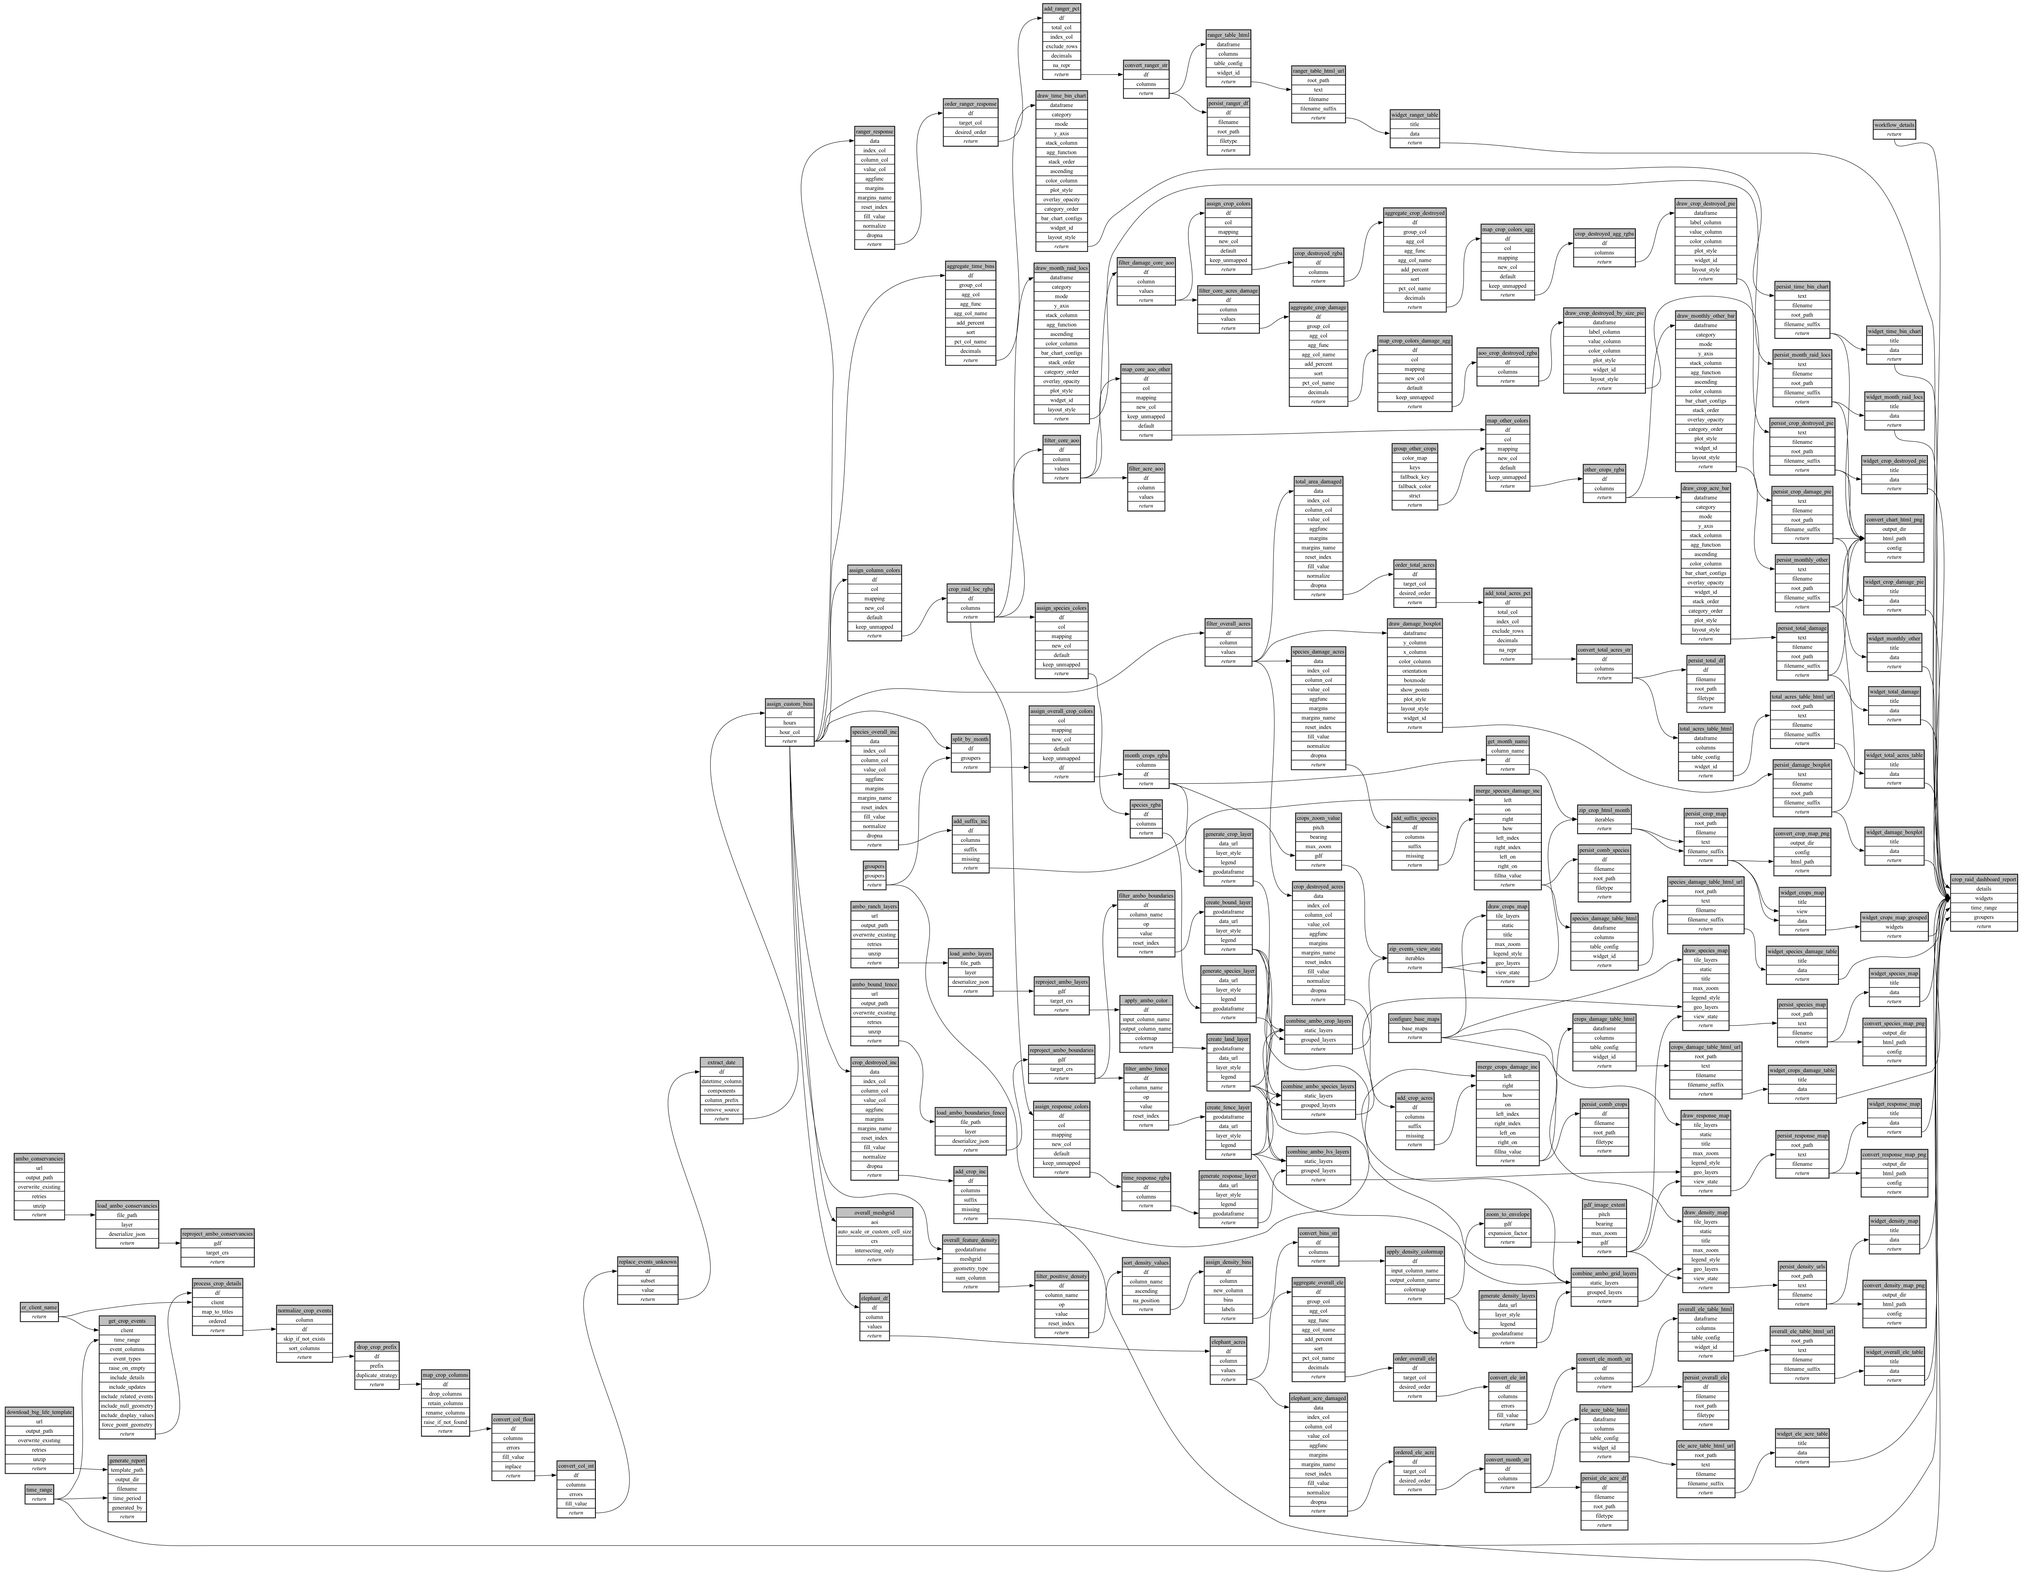
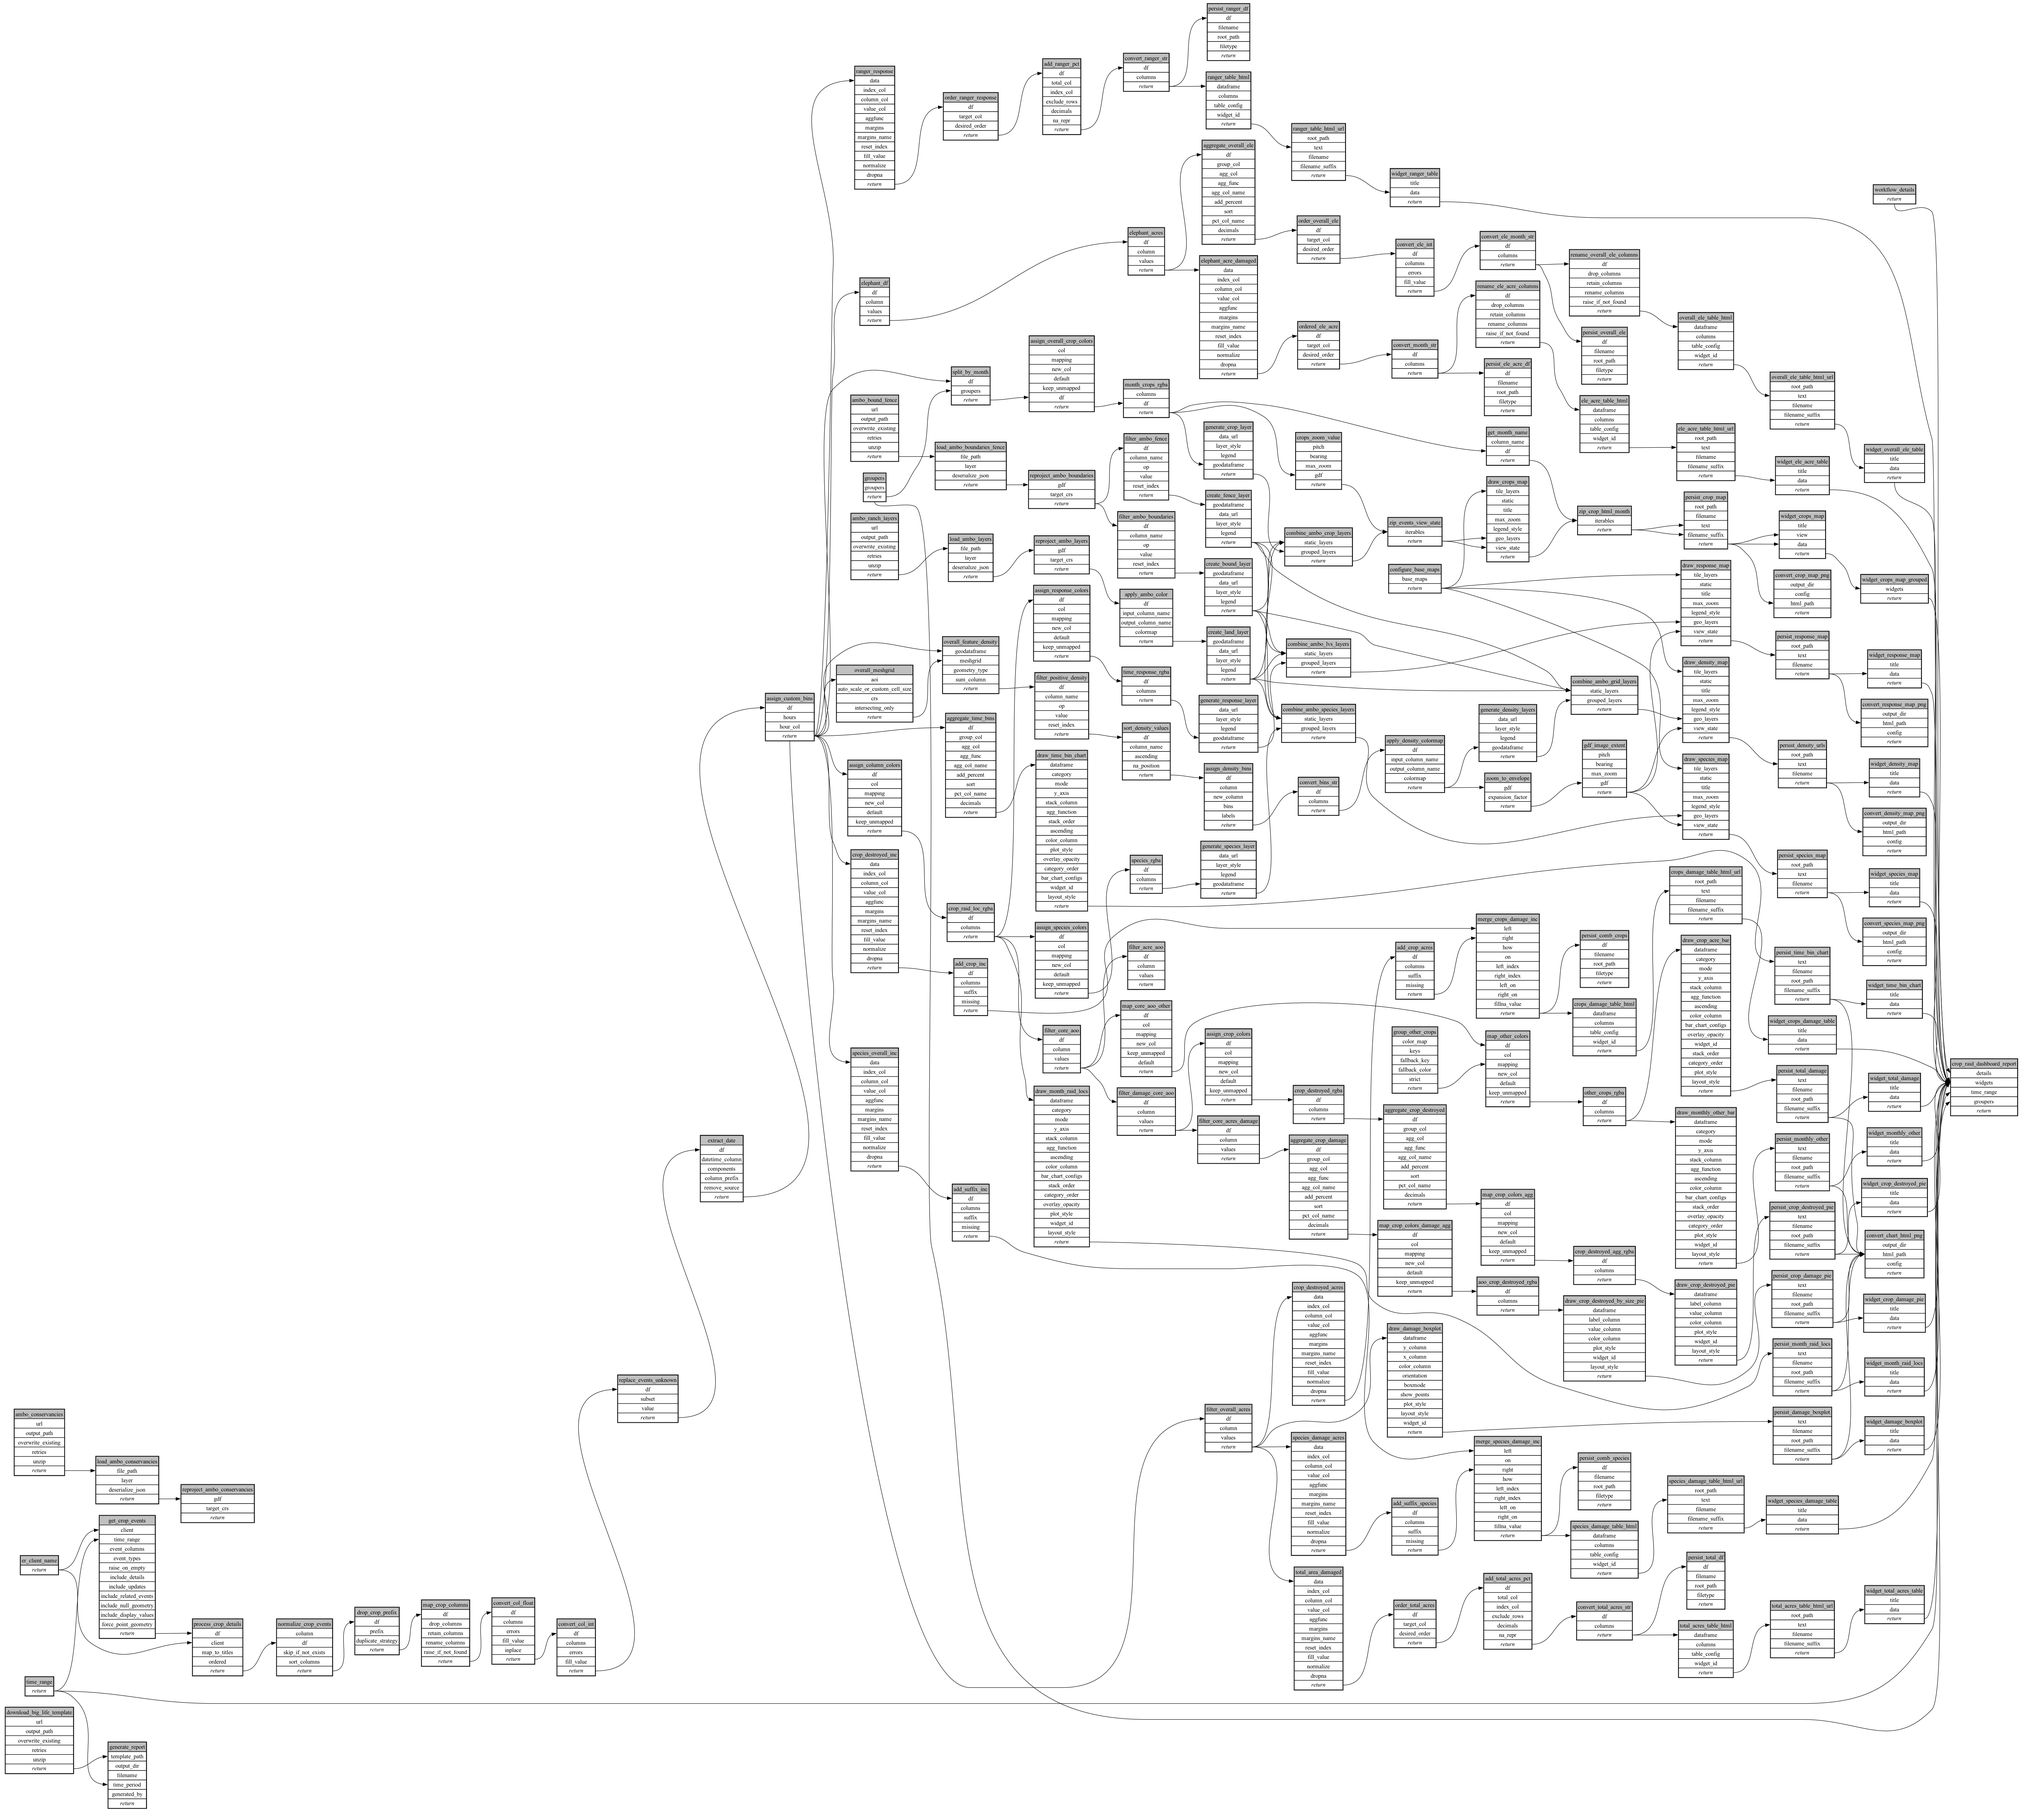
Fix tabular mismatch and rename columns on draw-table dashboard

diff --git a/ecoscope-workflows-crop-raid-report-workflow/ecoscope_workflows_crop_raid_report_workflow/dags/run_sequential.py b/ecoscope-workflows-crop-raid-report-workflow/ecoscope_workflows_crop_raid_report_workflow/dags/run_sequential.py
@@ -2279,6 +2279,30 @@ def main(params: dict[str, Any], validate_params_schema: bool = True):
         .call()
     )
 
+    rename_ele_acre_columns = (
+        task(map_columns)
+        .validate()
+        .set_task_instance_id("rename_ele_acre_columns")
+        .handle_errors()
+        .with_tracing()
+        .skipif(
+            conditions=[
+                any_is_empty_df,
+                any_dependency_skipped,
+            ],
+            unpack_depth=1,
+        )
+        .partial(
+            df=convert_month_str,
+            drop_columns=[],
+            retain_columns=[],
+            rename_columns={"ts_month_name": "Month Name"},
+            raise_if_not_found=False,
+            **(params.get("rename_ele_acre_columns") or {}),
+        )
+        .call()
+    )
+
     ele_acre_table_html = (
         task(draw_table)
         .validate()
@@ -2293,7 +2317,7 @@ def main(params: dict[str, Any], validate_params_schema: bool = True):
             unpack_depth=1,
         )
         .partial(
-            dataframe=convert_month_str,
+            dataframe=rename_ele_acre_columns,
             columns=None,
             table_config={
                 "enable_sorting": True,
@@ -2428,7 +2452,7 @@ def main(params: dict[str, Any], validate_params_schema: bool = True):
         )
         .partial(
             df=order_overall_ele,
-            columns=["Damage size"],
+            columns=["group_size"],
             errors="coerce",
             fill_value=0,
             **(params.get("convert_ele_int") or {}),
@@ -2480,6 +2504,33 @@ def main(params: dict[str, Any], validate_params_schema: bool = True):
         .call()
     )
 
+    rename_overall_ele_columns = (
+        task(map_columns)
+        .validate()
+        .set_task_instance_id("rename_overall_ele_columns")
+        .handle_errors()
+        .with_tracing()
+        .skipif(
+            conditions=[
+                any_is_empty_df,
+                any_dependency_skipped,
+            ],
+            unpack_depth=1,
+        )
+        .partial(
+            df=convert_ele_month_str,
+            drop_columns=[],
+            retain_columns=[],
+            rename_columns={
+                "ts_month_name": "Month Name",
+                "group_size": "Average Group Size",
+            },
+            raise_if_not_found=False,
+            **(params.get("rename_overall_ele_columns") or {}),
+        )
+        .call()
+    )
+
     overall_ele_table_html = (
         task(draw_table)
         .validate()
@@ -2494,7 +2545,7 @@ def main(params: dict[str, Any], validate_params_schema: bool = True):
             unpack_depth=1,
         )
         .partial(
-            dataframe=convert_ele_month_str,
+            dataframe=rename_overall_ele_columns,
             columns=None,
             table_config={
                 "enable_sorting": True,

diff --git a/ecoscope-workflows-crop-raid-report-workflow/ecoscope_workflows_crop_raid_report_workflow/dags/run_sequential_mock_io.py b/ecoscope-workflows-crop-raid-report-workflow/ecoscope_workflows_crop_raid_report_workflow/dags/run_sequential_mock_io.py
@@ -2296,6 +2296,30 @@ def main(params: dict[str, Any], validate_params_schema: bool = True):
         .call()
     )
 
+    rename_ele_acre_columns = (
+        task(map_columns)
+        .validate()
+        .set_task_instance_id("rename_ele_acre_columns")
+        .handle_errors()
+        .with_tracing()
+        .skipif(
+            conditions=[
+                any_is_empty_df,
+                any_dependency_skipped,
+            ],
+            unpack_depth=1,
+        )
+        .partial(
+            df=convert_month_str,
+            drop_columns=[],
+            retain_columns=[],
+            rename_columns={"ts_month_name": "Month Name"},
+            raise_if_not_found=False,
+            **(params.get("rename_ele_acre_columns") or {}),
+        )
+        .call()
+    )
+
     ele_acre_table_html = (
         task(draw_table)
         .validate()
@@ -2310,7 +2334,7 @@ def main(params: dict[str, Any], validate_params_schema: bool = True):
             unpack_depth=1,
         )
         .partial(
-            dataframe=convert_month_str,
+            dataframe=rename_ele_acre_columns,
             columns=None,
             table_config={
                 "enable_sorting": True,
@@ -2445,7 +2469,7 @@ def main(params: dict[str, Any], validate_params_schema: bool = True):
         )
         .partial(
             df=order_overall_ele,
-            columns=["Damage size"],
+            columns=["group_size"],
             errors="coerce",
             fill_value=0,
             **(params.get("convert_ele_int") or {}),
@@ -2497,6 +2521,33 @@ def main(params: dict[str, Any], validate_params_schema: bool = True):
         .call()
     )
 
+    rename_overall_ele_columns = (
+        task(map_columns)
+        .validate()
+        .set_task_instance_id("rename_overall_ele_columns")
+        .handle_errors()
+        .with_tracing()
+        .skipif(
+            conditions=[
+                any_is_empty_df,
+                any_dependency_skipped,
+            ],
+            unpack_depth=1,
+        )
+        .partial(
+            df=convert_ele_month_str,
+            drop_columns=[],
+            retain_columns=[],
+            rename_columns={
+                "ts_month_name": "Month Name",
+                "group_size": "Average Group Size",
+            },
+            raise_if_not_found=False,
+            **(params.get("rename_overall_ele_columns") or {}),
+        )
+        .call()
+    )
+
     overall_ele_table_html = (
         task(draw_table)
         .validate()
@@ -2511,7 +2562,7 @@ def main(params: dict[str, Any], validate_params_schema: bool = True):
             unpack_depth=1,
         )
         .partial(
-            dataframe=convert_ele_month_str,
+            dataframe=rename_overall_ele_columns,
             columns=None,
             table_config={
                 "enable_sorting": True,

diff --git a/ecoscope-workflows-crop-raid-report-workflow/README.md b/ecoscope-workflows-crop-raid-report-workflow/README.md
@@ -5,8 +5,8 @@
 
 ```yaml
 # fingerprint:
-artifacts_sha256_basic: 376963307b0bddd142b565b94b6f7a0201d416a07da479eb6e19b2050a0f7985
-artifacts_sha256_strict: 1f7c50ed1add41f283be4bcb128b7ba982f210cff012d4eb26306ea28c571e1e
+artifacts_sha256_basic: dbeb73d1c5dc147365607fb581549cc4a1036460ae4f7cd067ca2d63d094312d
+artifacts_sha256_strict: 0e5131b68f89fd557137f5b323f94bf800fe3e0537d4fd88470f51832ed1aeb4
 installed_requirements:
 - channel: https://repo.prefix.dev/ecoscope-workflows/
   name: ecoscope-platform
@@ -33,7 +33,7 @@ installed_requirements:
   name: opentelemetry-sdk
   version: {version: ==1.44.0}
 params_sha256: 3ab4c0f59c459fe3feea277da14ef6a8b3d0dfc0f958f3f015ddd4d700bcc5f8
-spec_sha256: a51d5b4577d0e87edf893cdc4c32ff334b2860786038eb71bbdb73d166492919
+spec_sha256: 2e4f4aabffd8c7f5bd64019eaa4484703525939ea7f006de2d4f40fc8762b344
 
 ```
 
